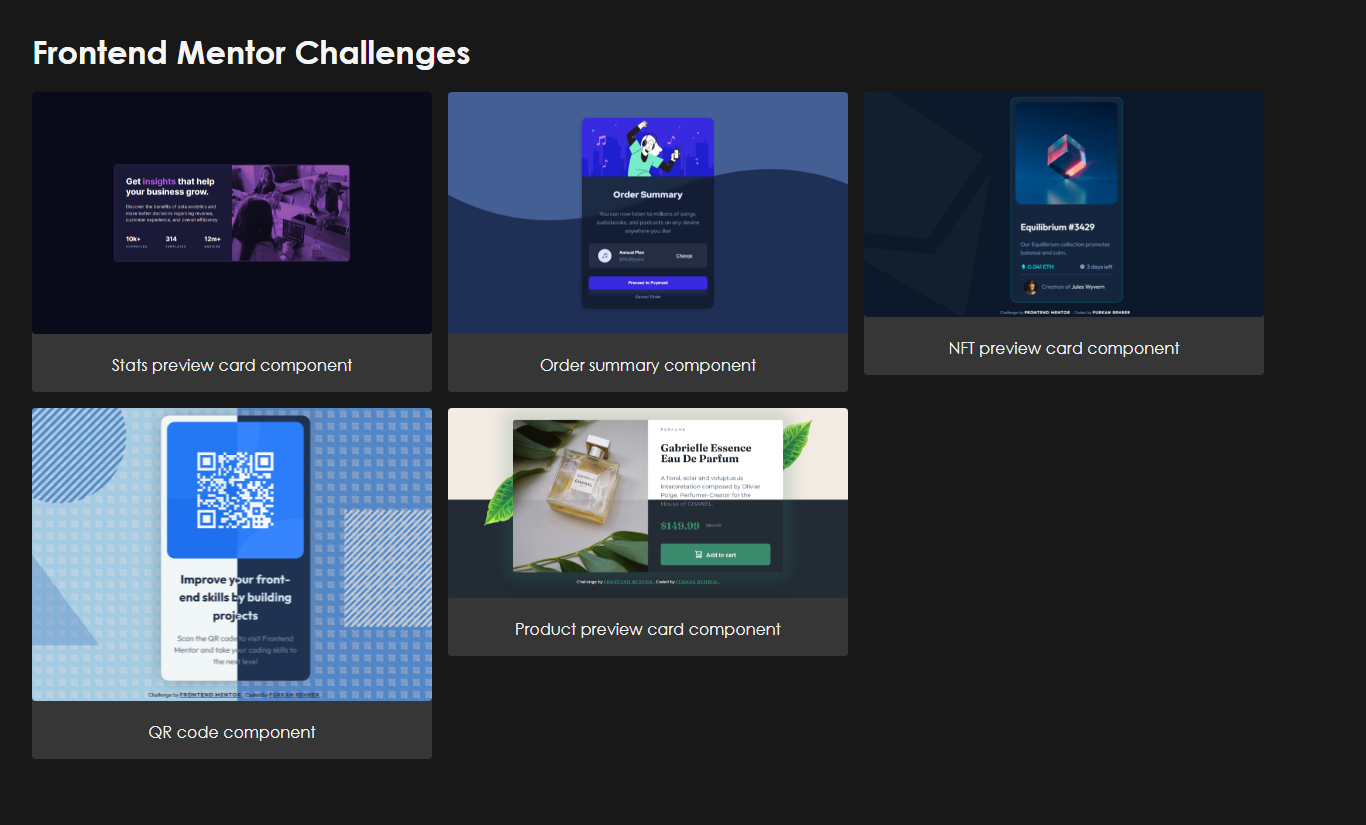
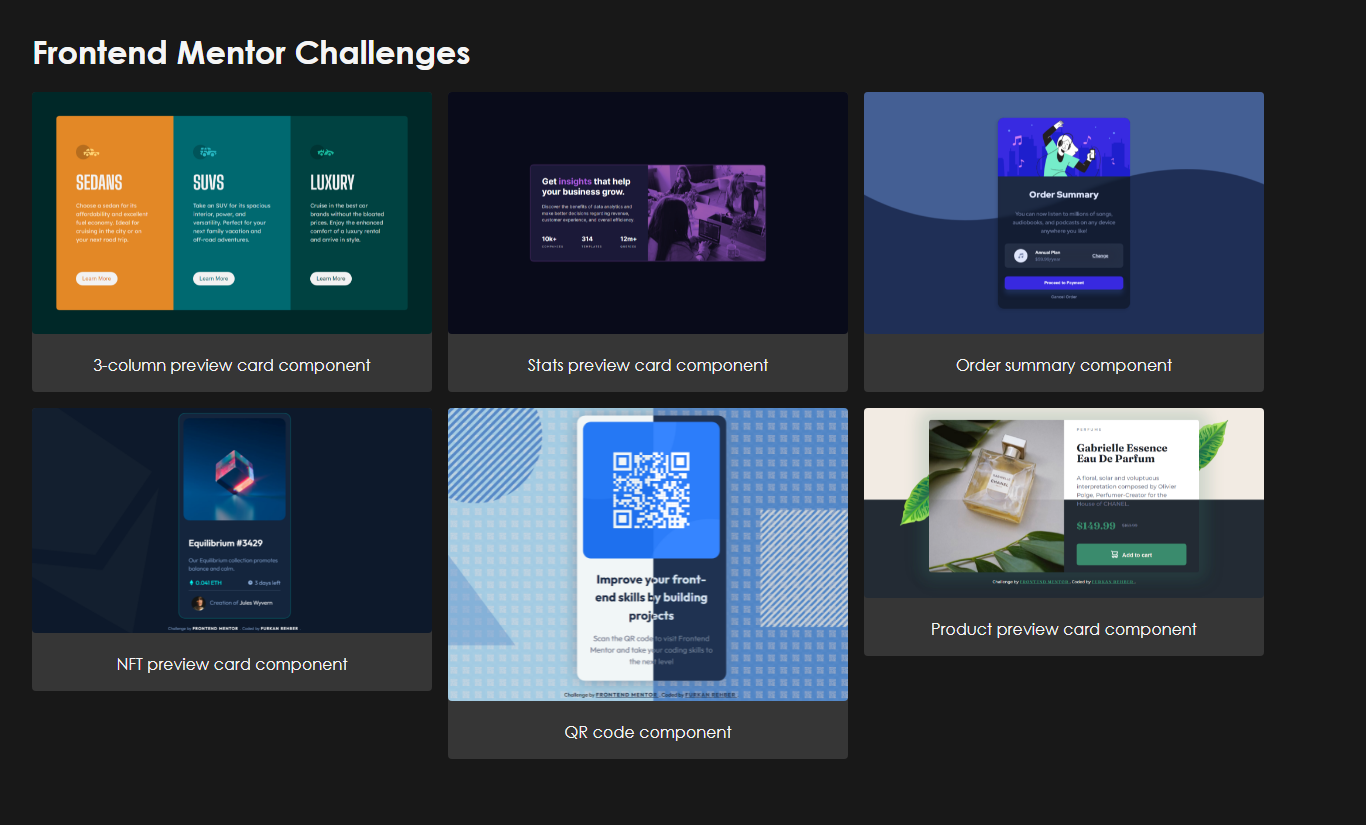
add challenge-6

diff --git a/index.html b/index.html
@@ -82,6 +82,19 @@
             </figure> -->
             <figure>
                 <a
+                    href="https://rehberbey.github.io/Frontend-Mentor-Challenges/3-column-preview-card-component-main/dist/index.html"
+                    target="_blank"
+                    rel="noopener noreferrer"
+                >
+                    <img
+                        src="./3-column-preview-card-component-main/design/desktop-dark.png"
+                        alt="challenge-6"
+                    />
+                    <figcaption>3-column preview card component</figcaption>
+                </a>
+            </figure>
+            <figure>
+                <a
                     href="https://rehberbey.github.io/Frontend-Mentor-Challenges/stats-preview-card-component-main/dist/index.html"
                     target="_blank"
                     rel="noopener noreferrer"
